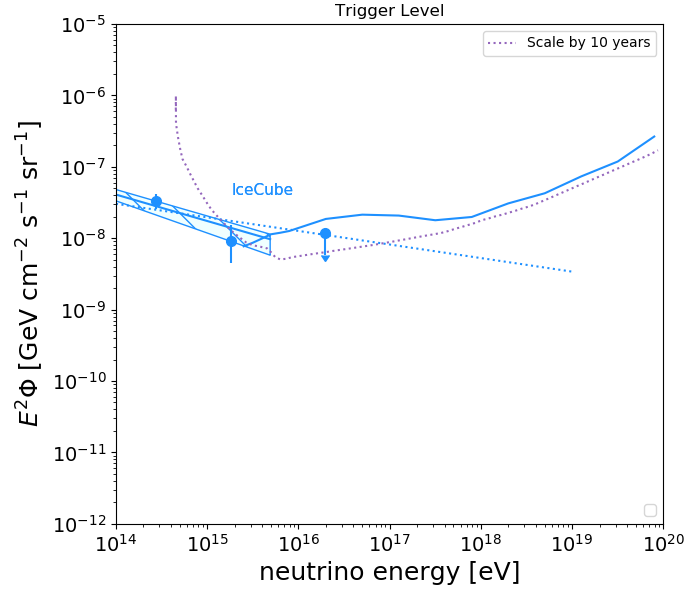
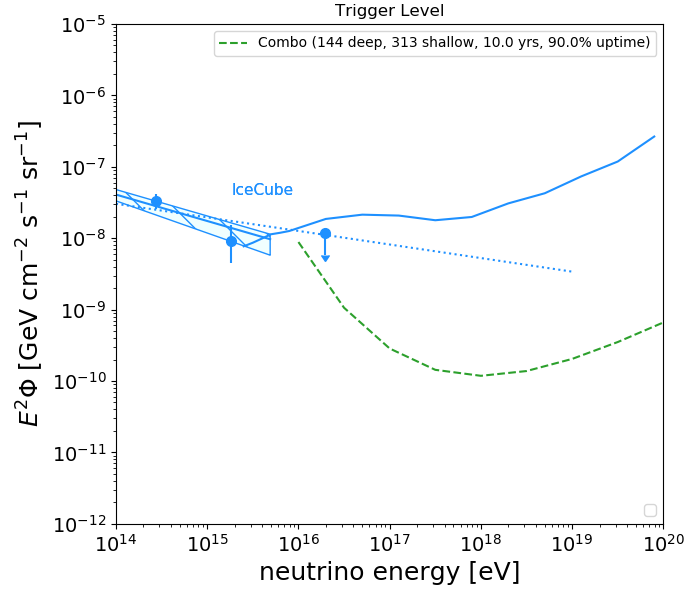
make the code spit out the SES for the review array

diff --git a/analysis/2021.02_review/plot_limit/plot_limit.py b/analysis/2021.02_review/plot_limit/plot_limit.py
@@ -9,25 +9,25 @@ from NuRadioMC.utilities import cross_sections
 n_deep = 144
 n_shallow = (169+144)
 livetime = 10 * units.year
-uptime = 1.
+uptime = 0.9
 
-data = np.genfromtxt('tabulated_veff_aeff.csv', delimiter=',', skip_header=1, names=['logE', 'dveff', 'daff', 'sveff', 'saeff'])
+data = np.genfromtxt('tabulated_veff_aeff_review_hybrid.csv', delimiter=',', skip_header=6, names=['logE', 'dveff', 'daff', 'sveff', 'saeff', 'o', 'do', 'so', 'alat'])
 energies = np.power(10.,data['logE'])
-optical_data = np.genfromtxt('gen2_optical_aeff.csv', delimiter=',', skip_header=1, names=['logE', 'aeff'])
-optical_energies = np.power(10.,optical_data['logE'])*units.eV
-optical_aeffs = optical_data['aeff']*units.km**2
-optical_veffs = optical_aeffs * cross_sections.get_interaction_length(optical_energies)*4*np.pi
+# optical_data = np.genfromtxt('gen2_optical_aeff.csv', delimiter=',', skip_header=1, names=['logE', 'aeff'])
+# optical_energies = np.power(10.,optical_data['logE'])*units.eV
+# optical_aeffs = optical_data['aeff']*units.km**2
+# optical_veffs = optical_aeffs * cross_sections.get_interaction_length(optical_energies)*4*np.pi
 
-icecube_data = np.genfromtxt('IceCube_aeff.csv', delimiter=',', skip_header=1, names=['E', 'aeff'])
-icecube_energies = icecube_data['E']*units.GeV
-icecube_aeffs = icecube_data['aeff']*units.m**2 * units.sr
-icecube_veffs = icecube_aeffs * cross_sections.get_interaction_length(icecube_energies)
+# icecube_data = np.genfromtxt('IceCube_aeff.csv', delimiter=',', skip_header=1, names=['E', 'aeff'])
+# icecube_energies = icecube_data['E']*units.GeV
+# icecube_aeffs = icecube_data['aeff']*units.m**2 * units.sr
+# icecube_veffs = icecube_aeffs * cross_sections.get_interaction_length(icecube_energies)
 
-icecube_data_prl = np.genfromtxt('IceCube_Exposure.csv', delimiter=',', skip_header=1, names=['GeV', 'Exposure'])
-icecube_prl_energies = icecube_data_prl['GeV'] * units.GeV
-icecube_prl_exposure = icecube_data_prl['Exposure'] /3 * units.second * units.sr * units.cm * units.cm
-icecube_prl_aeff_sr = icecube_prl_exposure/(2426 * units.day)
-icecube_prl_veff_sr = icecube_prl_aeff_sr * cross_sections.get_interaction_length(icecube_prl_energies)
+# icecube_data_prl = np.genfromtxt('IceCube_Exposure.csv', delimiter=',', skip_header=1, names=['GeV', 'Exposure'])
+# icecube_prl_energies = icecube_data_prl['GeV'] * units.GeV
+# icecube_prl_exposure = icecube_data_prl['Exposure'] /3 * units.second * units.sr * units.cm * units.cm
+# icecube_prl_aeff_sr = icecube_prl_exposure/(2426 * units.day)
+# icecube_prl_veff_sr = icecube_prl_aeff_sr * cross_sections.get_interaction_length(icecube_prl_energies)
 
 # output_csv = 'log10(E) [eV], veff [km^3 sr], aeff [km^2 sr]'
 # output_csv += "\n"
@@ -46,19 +46,22 @@ fig, ax = limits.get_E2_limit_figure(show_ice_cube_EHE_limit=True,
 										diffuse=True, show_grand_10k=False, show_grand_200k=False, show_Heinze=False, show_TA=False,
 										show_ara=False, show_arianna=False, show_IceCubeGen2=False, shower_Auger=False)
 
-limit_deep = fluxes.get_limit_e2_flux(energy=energies[1:]*units.eV, veff_sr= n_deep * data['dveff'][1:]*units.km**3*units.sr, livetime=livetime*uptime)
-limit_shallow = fluxes.get_limit_e2_flux(energy=energies[1:]*units.eV, veff_sr= n_shallow * data['sveff'][1:]*units.km**3*units.sr, livetime=livetime*uptime)
-limit_combo = fluxes.get_limit_e2_flux(energy=energies[1:]*units.eV, veff_sr= (n_shallow * data['sveff'][1:]*units.km**3*units.sr) + (n_deep * data['dveff'][1:]*units.km**3*units.sr), livetime=livetime*uptime)
-limit_gen2 = fluxes.get_limit_e2_flux(energy=optical_energies, veff_sr= optical_veffs, livetime=livetime*uptime)
-limit_i3 = fluxes.get_limit_e2_flux(energy=icecube_energies, veff_sr= icecube_veffs/5, livetime=livetime*uptime)
-limit_i3_prl = fluxes.get_limit_e2_flux(energy=icecube_prl_energies, veff_sr= icecube_prl_veff_sr, livetime=10*units.year)
+# limit_deep = fluxes.get_limit_e2_flux(energy=energies[1:]*units.eV, veff_sr= n_deep * data['dveff'][1:]*units.km**3*units.sr, livetime=livetime*uptime)
+# limit_shallow = fluxes.get_limit_e2_flux(energy=energies[1:]*units.eV, veff_sr= n_shallow * data['sveff'][1:]*units.km**3*units.sr, livetime=livetime*uptime)
+limit_combo = fluxes.get_limit_e2_flux(energy=energies*units.eV, veff_sr= ((n_shallow * data['sveff']*units.km**3*units.sr) + (n_deep * data['dveff']*units.km**3*units.sr))*(1/(1+data['o'])), livetime=livetime*uptime, upperLimOnEvents=1)
+# limit_gen2 = fluxes.get_limit_e2_flux(energy=optical_energies, veff_sr= optical_veffs, livetime=livetime*uptime)
+# limit_i3 = fluxes.get_limit_e2_flux(energy=icecube_energies, veff_sr= icecube_veffs/5, livetime=livetime*uptime)
+# limit_i3_prl = fluxes.get_limit_e2_flux(energy=icecube_prl_energies, veff_sr= icecube_prl_veff_sr, livetime=10*units.year)
 # limit_i3_prl_div3 = fluxes.get_limit_e2_flux(energy=icecube_prl_energies, veff_sr= icecube_prl_veff_sr/3, livetime=10*units.year)
-print(limit_i3)
+
+for i,j in zip(energies, limit_combo):
+	print('{:e}, {:e}'.format(i/limits.plotUnitsEnergy, j/limits.plotUnitsFlux))
+
 
 # ax.plot(np.power(10.,data['logE'][1:])/limits.plotUnitsEnergy, limit_shallow/limits.plotUnitsFlux, 'C1--', label='Shallow Only ({} sta, {} yrs, {}% uptime)'.format(n_shallow , livetime/units.year, uptime*100))
 # ax.plot(np.power(10.,data['logE'][1:])/limits.plotUnitsEnergy, limit_deep/limits.plotUnitsFlux, 'C0--', label='Deep Only ({} sta, {} yrs, {}% uptime)'.format(n_deep , livetime/units.year, uptime*100))
-ax.plot(np.power(10.,data['logE'][1:])/limits.plotUnitsEnergy, limit_combo/limits.plotUnitsFlux, 'C2--', label='Combo ({} deep, {} shallow, {} yrs, {}% uptime)'.format(n_deep, n_shallow , livetime/units.year, uptime*100))
-ax.plot(optical_energies/limits.plotUnitsEnergy, limit_gen2/limits.plotUnitsFlux, 'C3-.', label='Gen2-Optical')
+ax.plot(np.power(10.,data['logE'])/limits.plotUnitsEnergy, limit_combo/limits.plotUnitsFlux, 'C2--', label='Combo ({} deep, {} shallow, {} yrs, {}% uptime)'.format(n_deep, n_shallow , livetime/units.year, uptime*100))
+# ax.plot(optical_energies/limits.plotUnitsEnergy, limit_gen2/limits.plotUnitsFlux, 'C3-.', label='Gen2-Optical')
 # ax.plot(icecube_energies/limits.plotUnitsEnergy, limit_i3/limits.plotUnitsFlux, 'C4:', label='IceCube')
 # ax.plot(icecube_prl_energies/limits.plotUnitsEnergy, limit_i3_prl/limits.plotUnitsFlux, 'C4:', label='Scale by 10 years')
 # ax.plot(icecube_prl_energies/limits.plotUnitsEnergy, limit_i3_prl_div3/limits.plotUnitsFlux, 'C3-.', label='Scale by 10 years/3')
